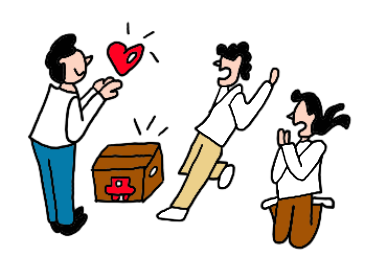
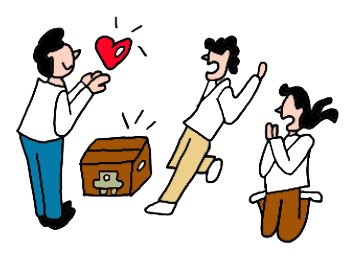
add aboutRWD . add pic into imgs/draw

Changed region(s): [[0.0311, 0.0623, 0.9633, 0.965]]

diff --git a/src/assets/scss/page/_about.scss b/src/assets/scss/page/_about.scss
@@ -6,35 +6,56 @@
         padding: 0;
     }
 
+    h1 {
+        margin: 0 auto;
+        display: flex;
+    img{
+        width: 35%;
+        margin: 0 auto;
+        padding: 15px;
+        }
+    }
     
     .topPics{
         display: flex;
         align-items: center;
-        // height: 15vh;
+        // flex-wrap: wrap;
+        width: 100%;
+        // overflow: hidden;
             img{
                 padding: 1%;
-                width: 25%;
-                height: 25%;
+                margin: 0 auto;
+                width: 23%;
+                height: auto;
+                object-fit: cover;
+                overflow: hidden;  //注意
             }
     }
     
-    .aboutUsC{
-        padding: 10% 0;
+    .aboutUsContents{
+        padding: 2% 0 0;
         // height: 720px;
         // display: flex;
+        margin: auto;
+        img{
+            padding: 3%;
+            display: flex;
+            margin: 0 auto;
+            width: 90%;
+        }
 
-
-        .aboutUsCon{
+        .aboutUsContent{
             width: 100%;
             // background-color: $grey_2;
             display: flex;
             flex-direction: column;
-            justify-content: center;
+            // justify-content: center;
+            margin: 3%;
             
             img{
-                width: 20%;
+                width: 30%;
                 position: absolute;
-                right: 25%;
+                right: 8%;
             }
             
             p{
@@ -44,6 +65,9 @@
                 padding: 20px 60px;
                 display: flex;
                 position: relative;
+                // margin: 0 auto;
+                flex-wrap: wrap;
+
                 // align-items: center;
             }
         }
@@ -51,52 +75,84 @@
 
 }
 
-
-// .about{
-//     width: 100%;
-
-//     * {
-//         margin: 0;
-//         padding: 0;
-//     }
-
+@media (min-width : 768px) {
+.about{
+    width: 100%;
     
-//     .topPics{
-//         display: flex;
-//         align-items: center;
-//         // height: 15vh;
-//             img{
-//                 padding: 1%;
-//                 width: 25%;
-//                 height: 25%;
-//             }
-//     }
+    .topPics{
+        display: flex;
+        align-items: center;
+        overflow: hidden;
+        // height: 15vh;
+            img{
+                padding: 1%;
+                width: 25%;
+                height: 25%;
+            }
+    }
     
-//     .aboutUsC{
-//         padding: 10% 0;
-//         height: 720px;
-//         display: flex;
-        
-//         .aboutUsCon{
-//             width: 100%;
-//             background-color: $grey_2;
-//             display: flex;
-//             flex-direction: column;
-//             justify-content: center;
-            
-//             img{
-//                 width: 60%;
-//             }
-            
-//             p{
-//                 font-size: $p;
-//                 font-family: 'Kosugi Maru';
-//                 line-height: 40px;
-//                 padding: 20px 60px;
-//                 display: flex;
-//                 // align-items: center;
-//             }
-//         }
-//     }
+    .aboutUsContents{
+        // width: 100%;
+        padding: 10px 0;
+        // height: 720px;
+        display: flex;
+        margin: 20px 60px 10px 0;
+            &:nth-child(odd) {
+                background-color: $grey_2;
+            }
+            &:nth-child(even) {
+                background-color: $grey_1;
+                flex-direction: row-reverse;
+                margin: 20px 0 10px 60px;
+                .aboutUsContentsPic{
+                    padding: 20px 60px 20px 0px;
+                }
+                // &:aboutUsContent{
+                //     &:car_caraPic {
+                //         // position: absolute;
+                //         top:0;
+                //         width: 10%;
+                //     }                
+                // }
 
-// }
+            }
+            .aboutUsContentsPic{
+                padding: 20px 0px 20px 60px;
+                display: flex;
+                margin: 0 auto;
+                width: 80%;
+                height: 80%;
+            }
+            .aboutUsContent{
+                width: 100%;
+                display: flex;
+                // flex-direction: column;
+                justify-content: center;
+
+                img{
+                    width: 25%;
+                    height: auto;
+                    top: 80%;
+                }
+                
+                p{
+                    font-size: $p;
+                    font-family: 'Kosugi Maru';
+                    line-height: 40px;
+                    padding: 20px 10px 10px 30px;
+                    display: flex;
+                    // align-items: center;
+                }
+
+            }
+            .car_caraPic{
+                width: 50%;
+                position: absolute;
+                top: 100;
+            }
+    }
+
+
+
+}
+}

diff --git a/src/views/AboutView.vue b/src/views/AboutView.vue
@@ -1,16 +1,18 @@
 <template>
   <div class="about">
-    <h1>This is an about page</h1>
-    <h2>Test init</h2>
+    <h1><img src="../assets/imgs/about/aboutTitle.png" alt=""></h1>
+    <!-- <h2>Test init</h2> -->
     <div class="topPics">
       <img src="../assets/imgs/about/aboutTop1.png" alt="aboutIMG">
       <img src="../assets/imgs/about/aboutTop2.png" alt="aboutIMG">
       <img src="../assets/imgs/about/aboutTop3.png" alt="aboutIMG">
       <img src="../assets/imgs/about/aboutTop4.png" alt="aboutIMG">
     </div>
-    <div class="aboutUsC">
-      <img src="../assets/imgs/about/aboutUsC1.png" alt="">
-      <div class="aboutUsCon">
+    <div class="aboutUsContents">
+      <div class="aboutUsContentsPic">
+        <img src="../assets/imgs/about/aboutUsC1.png" alt="">
+      </div>
+      <div class="aboutUsContent">
         <img src="../assets/imgs/draw/person_love.png" alt="">
         <p>歡迎踏入 Cara Car，<br>一個充滿創意與歡樂的玩具車仙境。
         </p>
@@ -18,10 +20,12 @@
         </p>
       </div>
     </div>
-    <div class="aboutUsC">
-      <img src="../assets/imgs/about/aboutUsC2.png" alt="">
-      <div class="aboutUsCon">
-        <!-- <img src="../assets/imgs/draw/person_love.PNG" alt=""> -->
+    <div class="aboutUsContents">
+      <div class="aboutUsContentsPic">
+        <img src="../assets/imgs/about/aboutUsC2.png" alt="">
+      </div>
+      <div class="aboutUsContent">
+        <!-- <div class="car_caraPic"><img src="../assets/imgs/draw/car_caracar.png" alt=""></div> -->
         <p>我們致力於提供各種特色的玩具車，<br>讓每個孩子都能擁有專屬的玩具車，<br>展開一場屬於他們獨特的冒險旅程。
       </p>
       <p>我們相信，<br>每個孩子都應該擁有屬於自己的獨特遊戲體驗。
@@ -29,6 +33,7 @@
       </div>
 
     </div>
+    <div class="car_caraPic"><img src="../assets/imgs/draw/car_caracar.png" alt=""></div>
     <BtnEvent/>
     <BtnShopInfo/>
 
